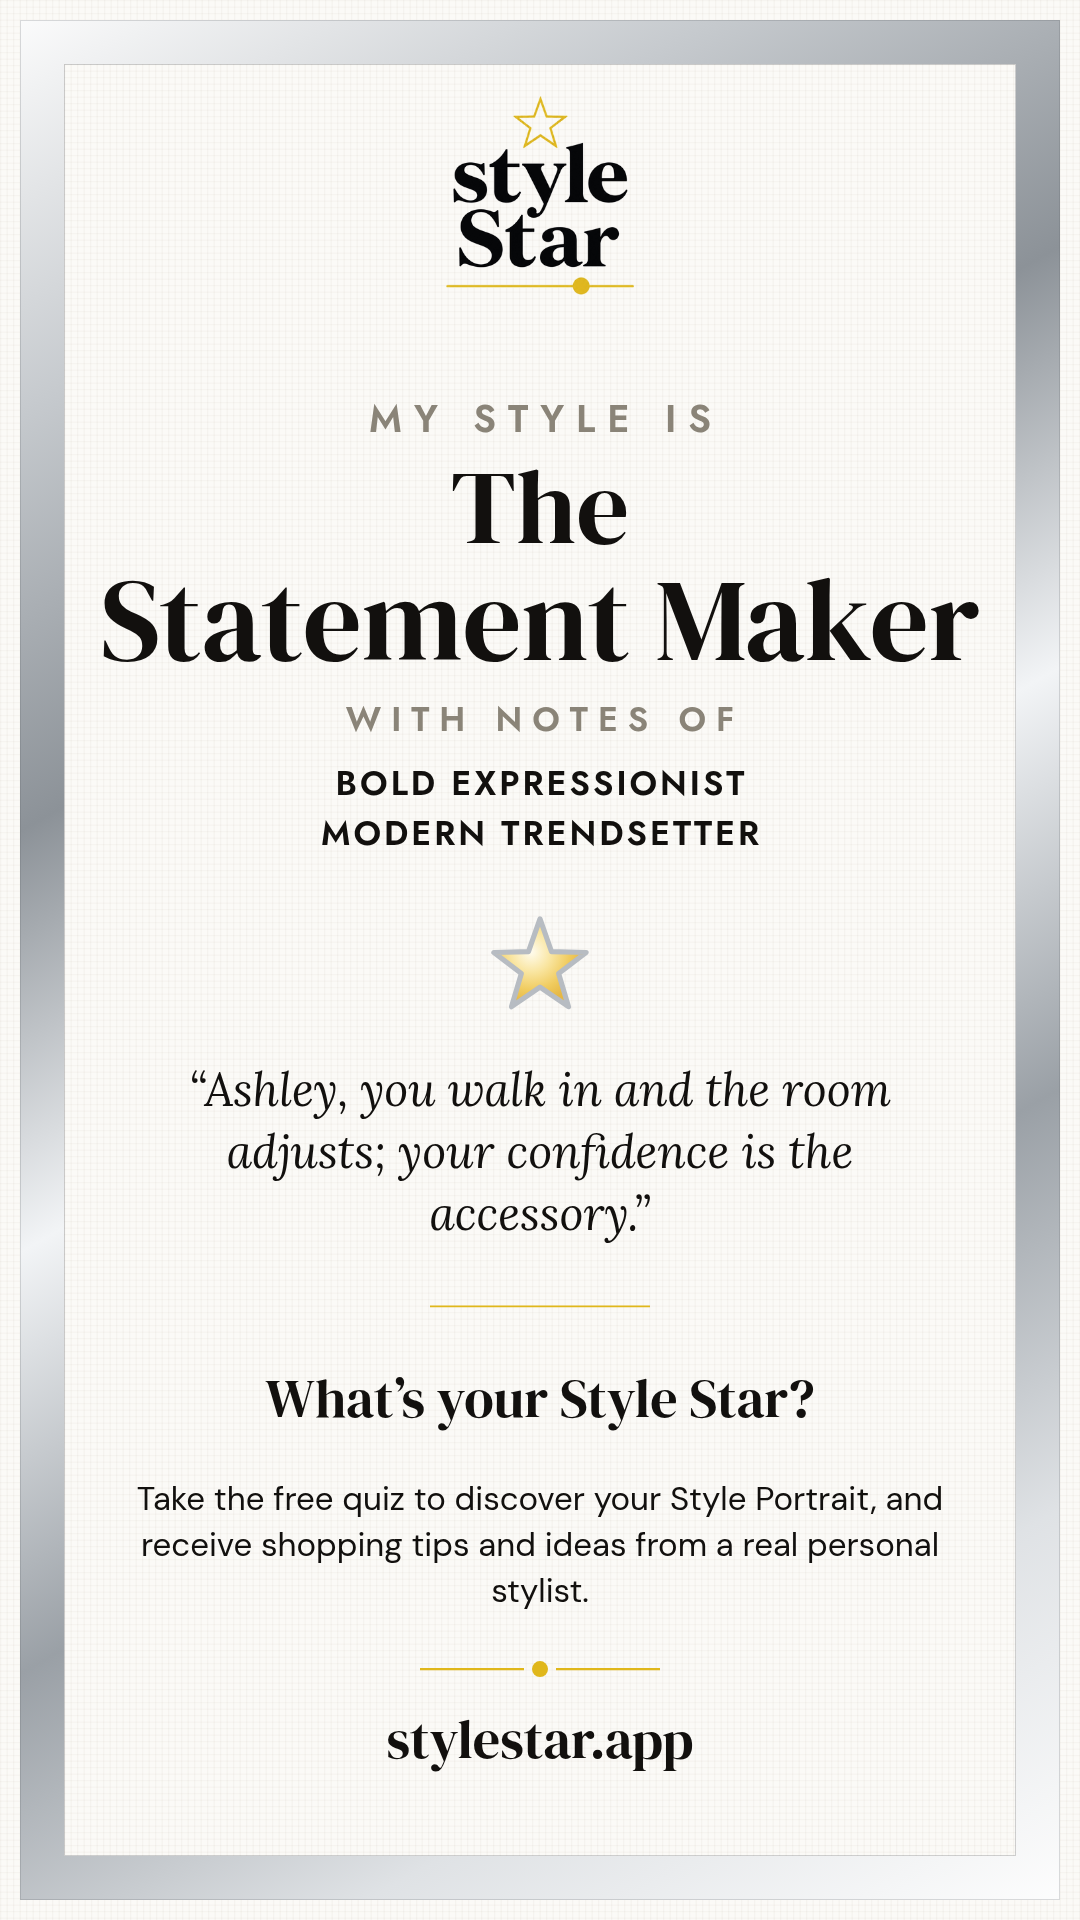
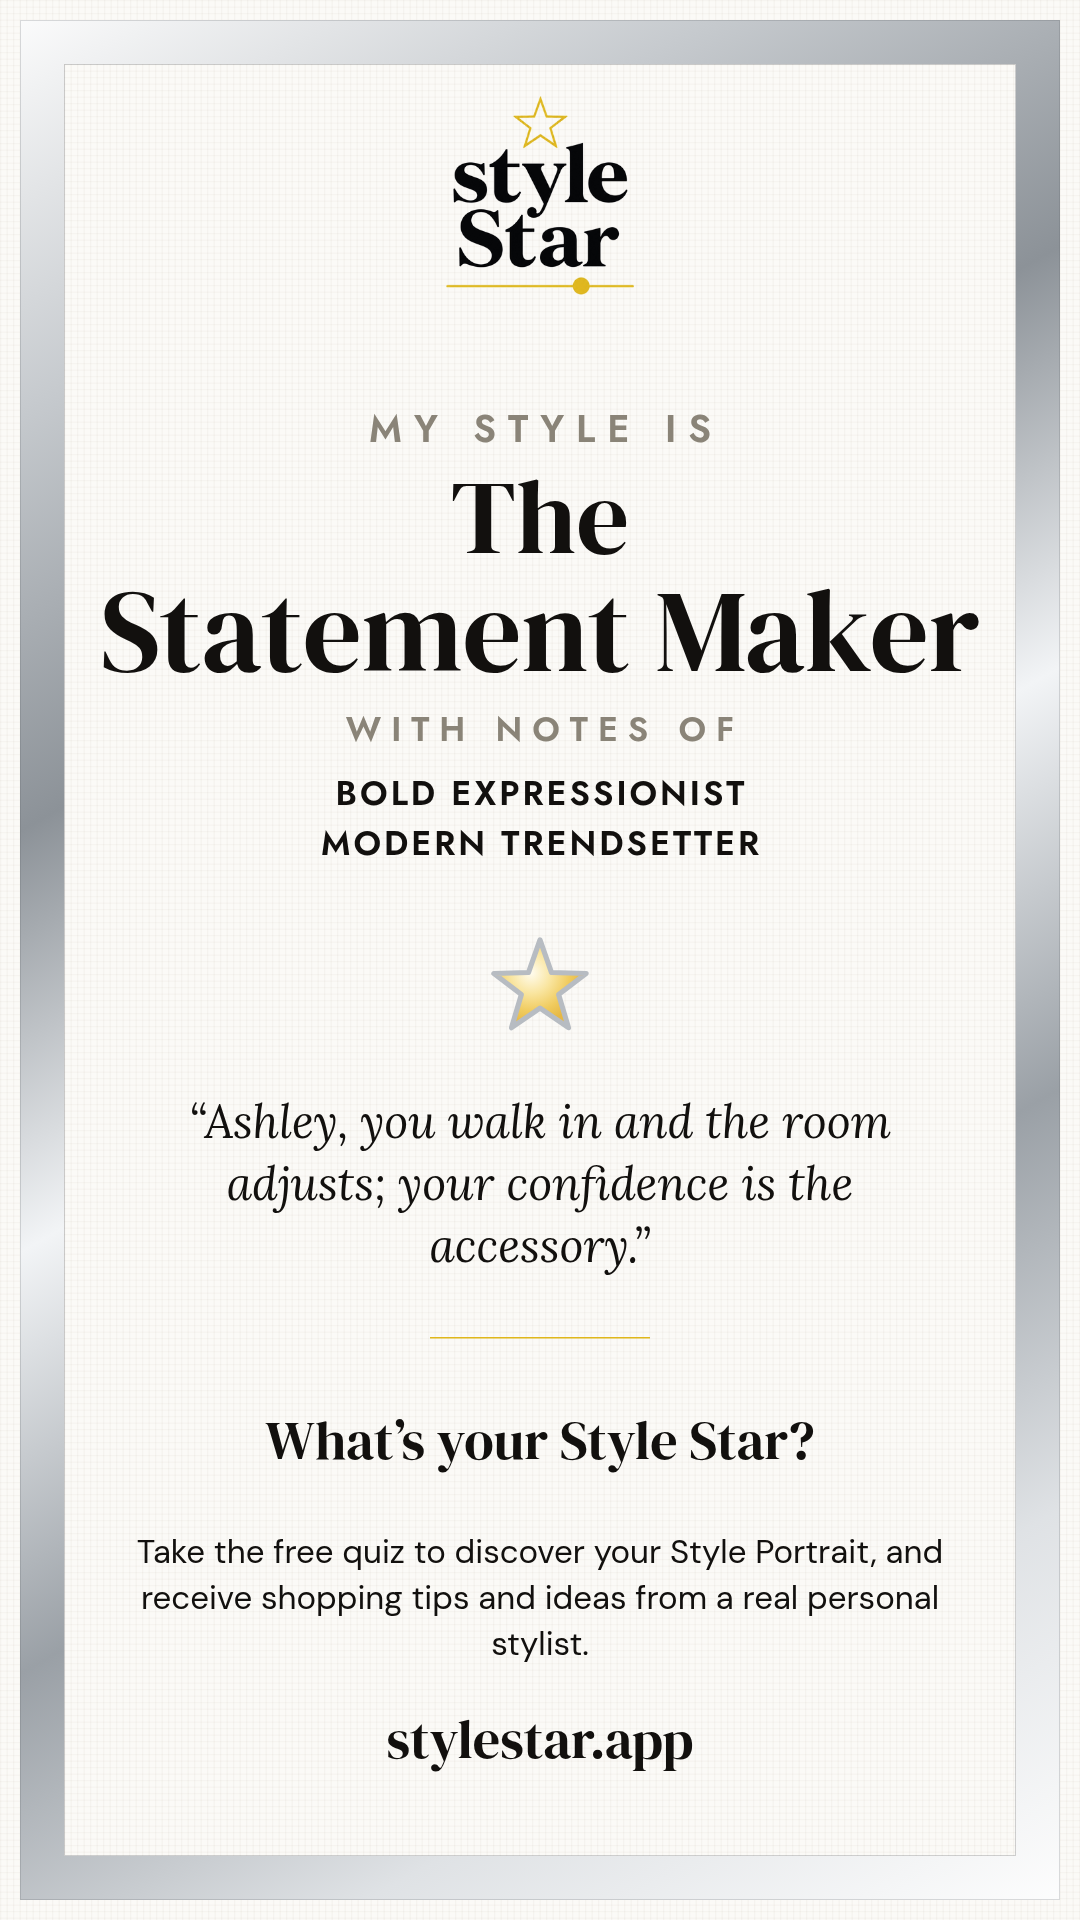
The slider above the address comes off
Her call. It was an echo of the slider under the logo, and an echo of a
mark is not the mark - on a card whose ornament is already the star and
the silver frame, it read as a third piece of decoration doing no work.
The address now sits under the sentence with nothing between them,
which is what an address should do.

THE LAYOUT IS REBALANCED, NOT JUST EMPTIED. The row carried 40px plus
one of the AIR seams, so both go: tailBase loses its 40 and SEAMS drops
7 -> 6. Deleting the row alone would have left the promise sentence
sitting on top of the address, since that row's height WAS the gap.
A comment at the site says to keep the two in step.

MEASURED on the card rendered from the real app, with the bands derived
from the ink rather than a fixed window: sentence -> address 58px
against "What's your Style Star?" -> sentence 66px, so the address
reads as a peer of the sentence, not as an orphan or a caption. The
long-motto stress case (six-line fallback motto) comes out at 62px,
foot margin identical at 148px.

LOGO_GOLD is still earning its place - the hairline above the CTA
takes it - so nothing went dead with the row.

starcard: 156 checks, 0 failures, all 28 archetypes.

Claude-Session: https://claude.ai/code/session_01KL48qmj9qt8bCmoR12p3kf

diff --git a/index.html b/index.html
@@ -12195,7 +12195,7 @@ function buildCardBlob(source,callback){
     ctx.font=PROMISE_FONT;
     const promiseLines=wrap('Take the free quiz to discover your Style Portrait, and receive shopping tips and ideas from a real personal stylist.',W-240);
     const promiseH=promiseLines.length*46+18;
-    const tailBase=58+40+promiseH+92+52;
+    const tailBase=58+promiseH+92+52;
 
     // 2. the upper block's natural height, with the motto shrinking to fit
     /* Her generated motto is capped at 95 chars by the prompt and needs 3 lines,
@@ -12226,8 +12226,9 @@ function buildCardBlob(source,callback){
        start reading as eight separate things. Whatever is left over falls into the
        gap above the tail rule, which is the seam between HER half of the card and
        the invitation half — the one place a large gap is doing a job. */
-    const SEAMS=7;   // logo, notes, divider + the four in the tail. The
-                     // name->notes seam is deliberately NOT one of them.
+    const SEAMS=6;   // logo, notes, divider + the three in the tail. The
+                     // name->notes seam is deliberately NOT one of them, and the
+                     // slider that used to carry a fourth tail seam is gone.
     const AIR=Math.min(52,Math.max(0,room-blockH)/SEAMS);
 
     // 4. build the tail, each row carrying its share of the air BELOW it
@@ -12237,14 +12238,13 @@ function buildCardBlob(source,callback){
       ctx.fillStyle=BLACK;ctx.font='54px "DM Serif Display", serif';
       ctx.fillText('stylestar.app',W/2,y+46);
     });
-    push(40+AIR,function(y){
-      // an echo of the slider under the logo, so it takes the logo's own gold
-      ctx.strokeStyle=LOGO_GOLD;ctx.lineWidth=2.4;
-      ctx.beginPath();
-      ctx.moveTo(W/2-120,y+20);ctx.lineTo(W/2-16,y+20);
-      ctx.moveTo(W/2+16,y+20);ctx.lineTo(W/2+120,y+20);ctx.stroke();
-      ctx.fillStyle=LOGO_GOLD;ctx.beginPath();ctx.arc(W/2,y+20,8,0,7);ctx.fill();
-    });
+    /* THE SLIDER ABOVE THE ADDRESS IS DELETED, her call. It was an echo of the
+       one under the logo, and an echo of a mark is not the mark — it read as a
+       second piece of ornament on a card whose ornament is already the star and
+       the silver frame. The address now sits under the sentence with nothing
+       between them, which is what an address should do.
+       ▶ Its 40px is returned to the layout and it no longer claims an AIR seam,
+       so SEAMS drops with it. Do not re-add one without dropping the other. */
     /* HER SENTENCE, word for word. "of 20 years" was cut on her instruction
        ("I feel like we already say it a lot") and "a REAL personal stylist" is her
        own replacement — the stronger claim here, because the objection a stranger
